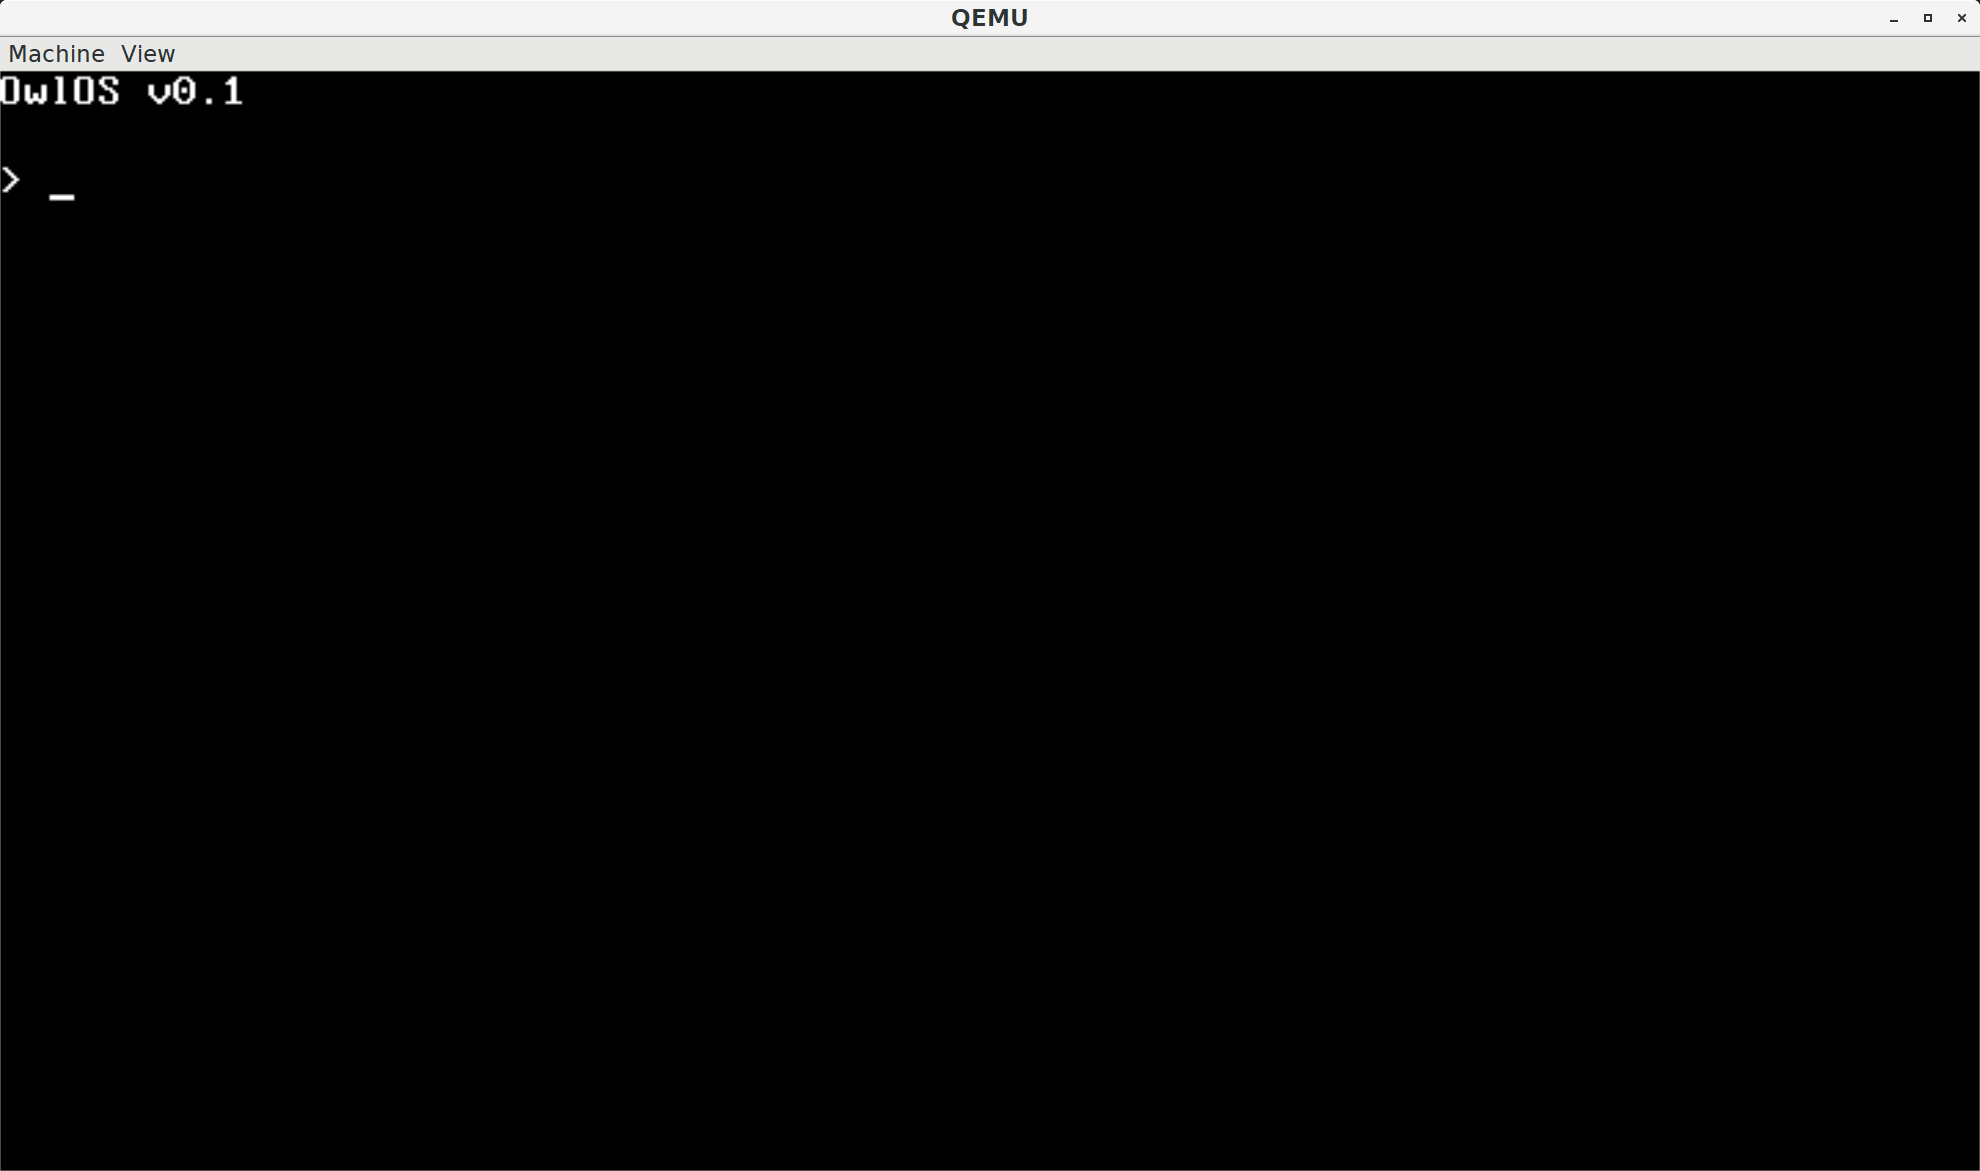
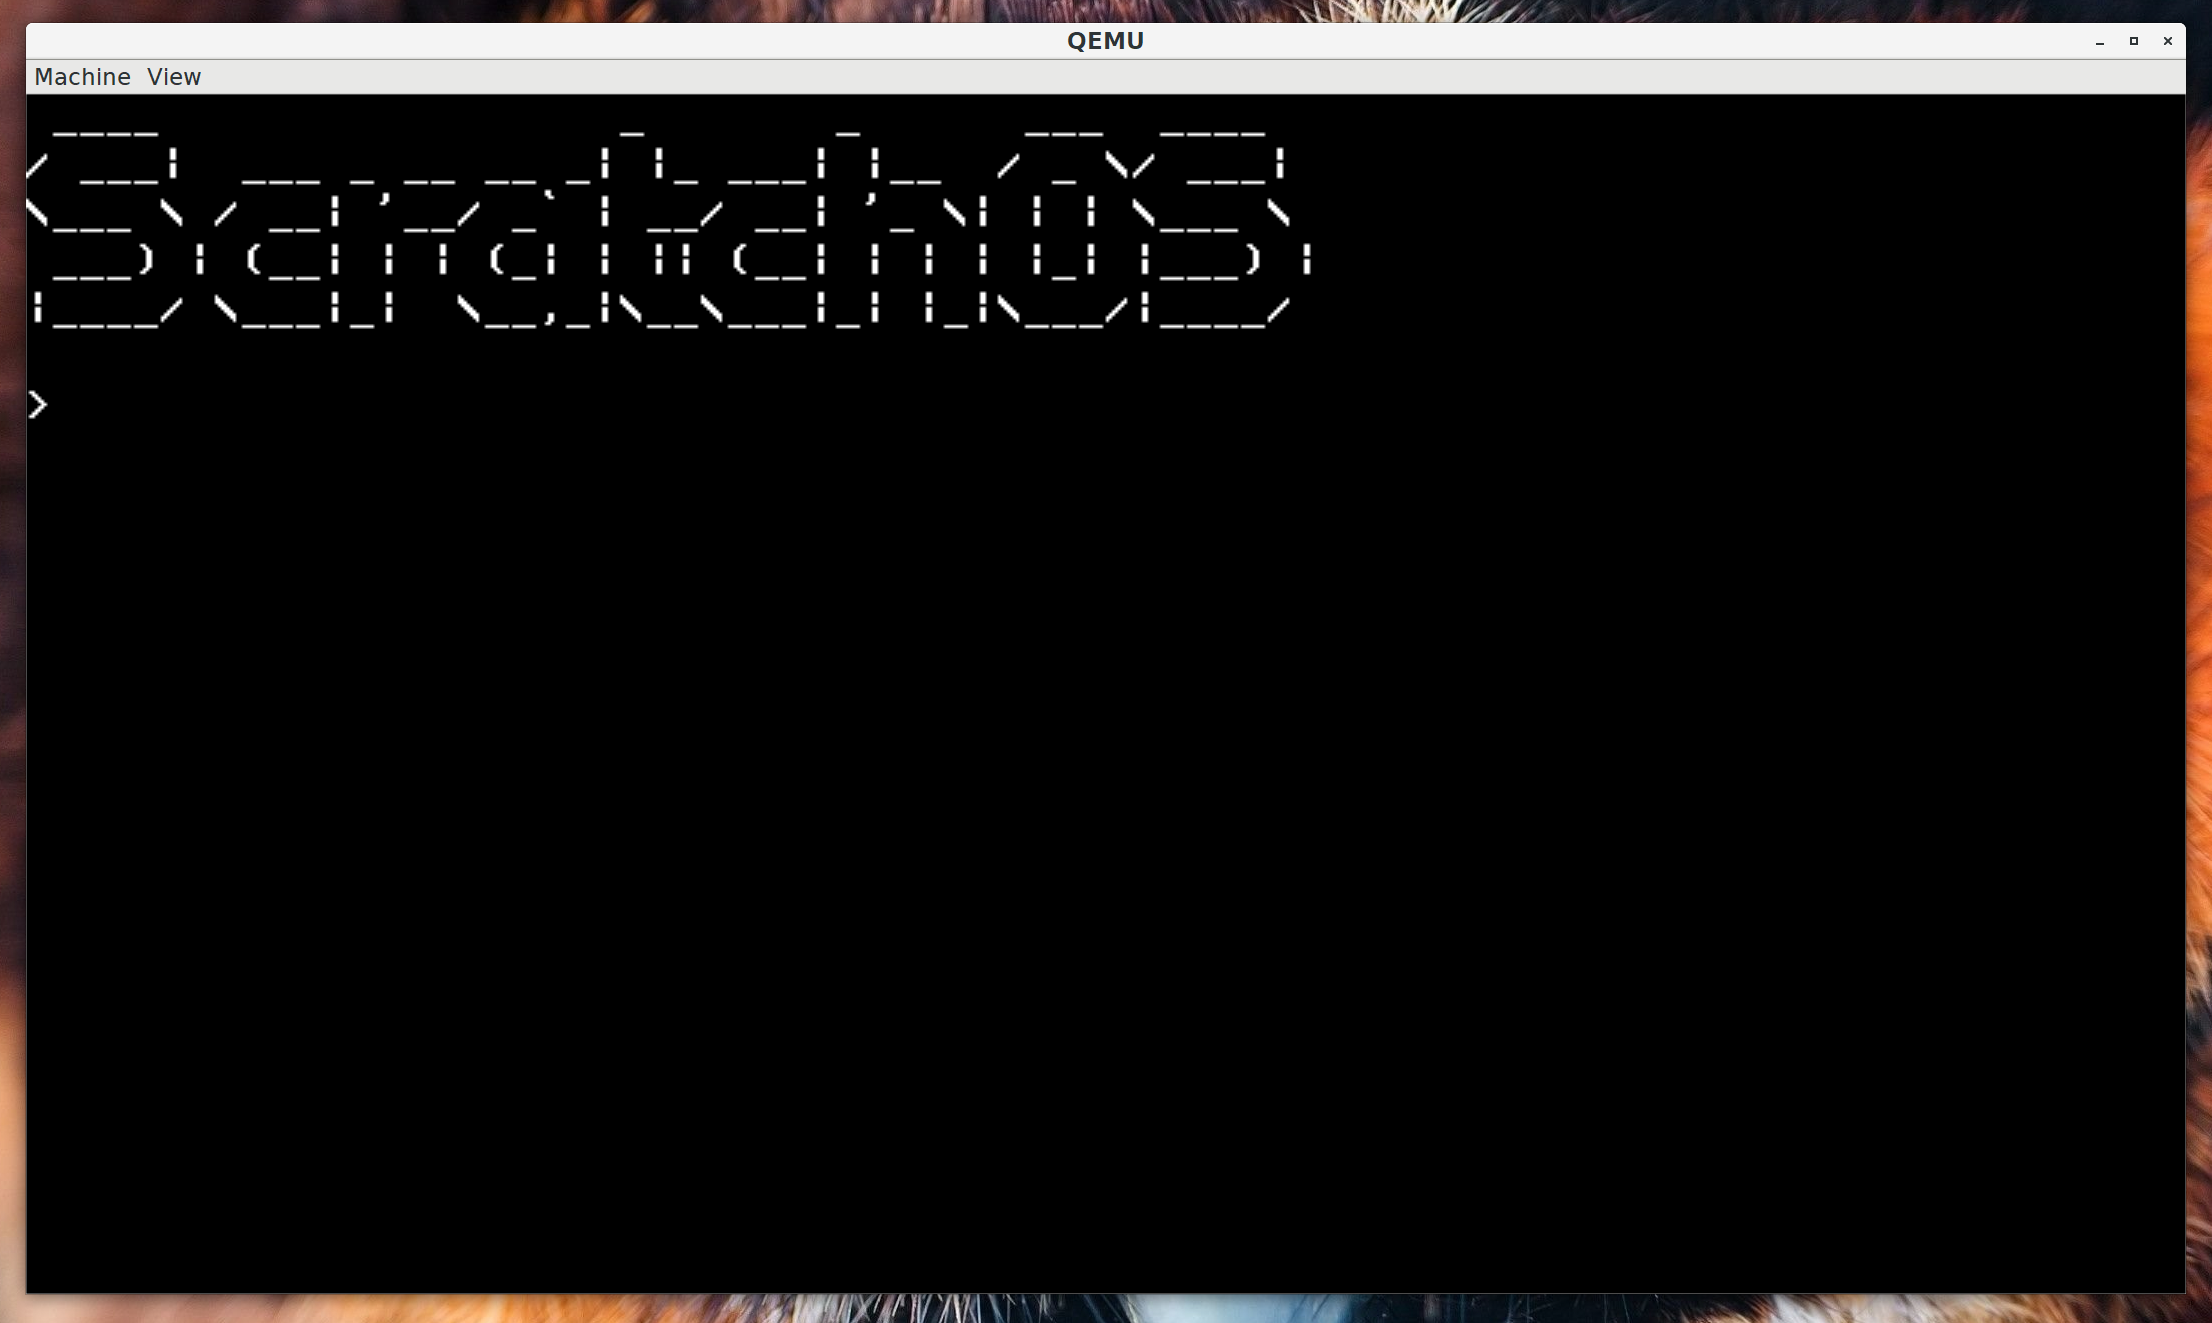
Renamed project

diff --git a/README.md b/README.md
@@ -1,4 +1,4 @@
-# OwlOS
+# ScratchOS
 
 OwlOS is a tiny operating system developed for learning purposes. It is currently under development.
 
